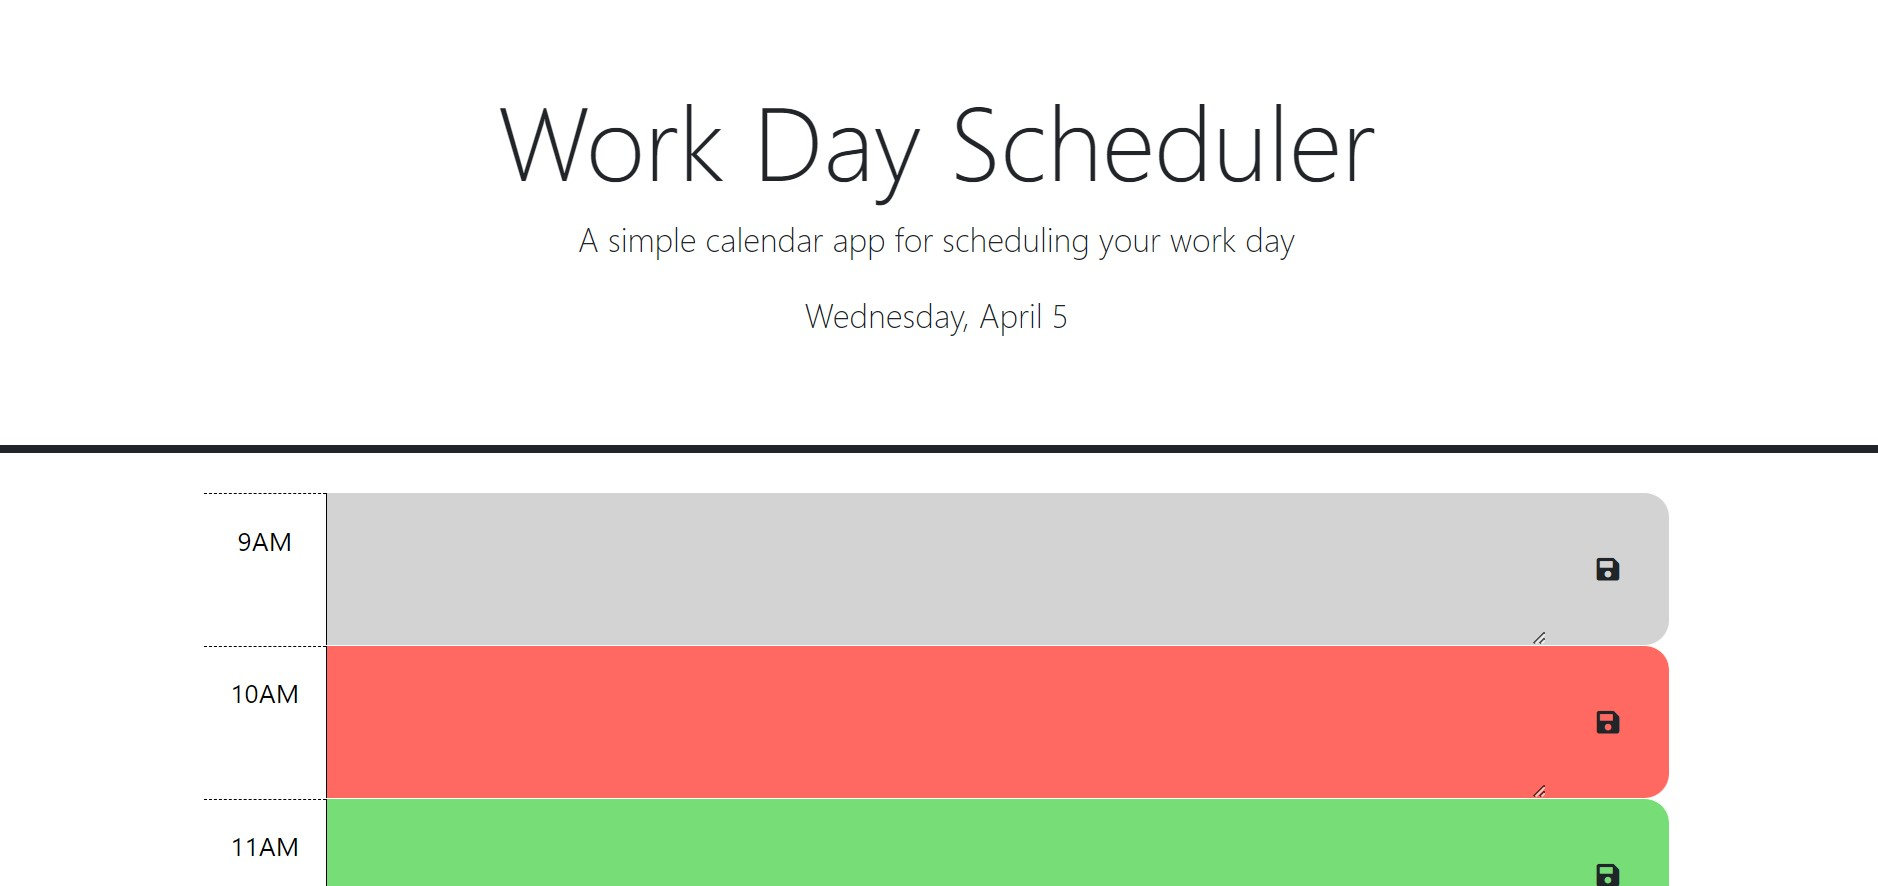
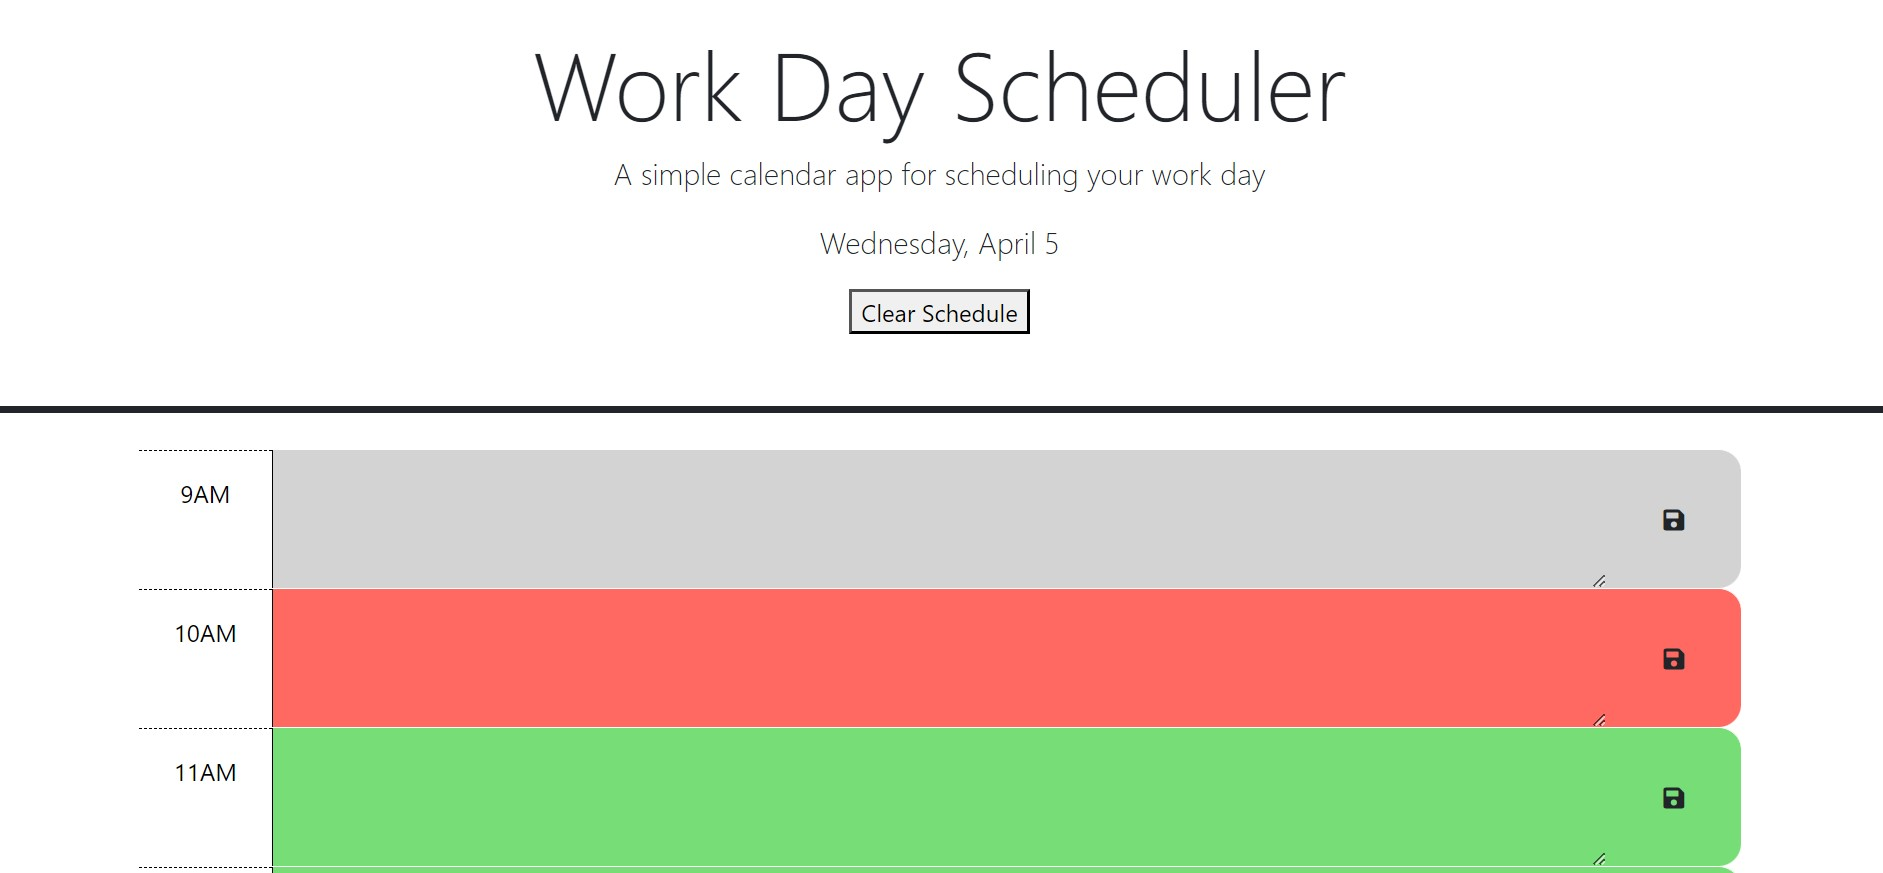
updated screenshot to include clear schedule button. expanded on the README

Changed region(s): [[0.0, 0.4639, 1.0, 1.0], [0.2471, 0.0619, 0.7412, 0.2165], [0.3088, 0.2474, 0.6794, 0.4021]]

diff --git a/README.md b/README.md
@@ -1,6 +1,6 @@
 Repository for Daily work scheduler.
 
-A daily work scheduler that shows the past, present, and future hour as grey, red and green. User can input text into each hour window and save it to local storage by clicking the save icon at the right end of each hour window. Date is displayed at the top of the page.
+A daily work scheduler that shows the past, present, and future hour as grey, red and green. Date is displayed at the top of the page. User can input text into each hour window and save it to local storage by clicking the save icon at the right end of each hour window. Clear Schedule will clear text from hour windows.
 
 
 https://lailiel.github.io/05-Work-Day-Scheduler/
